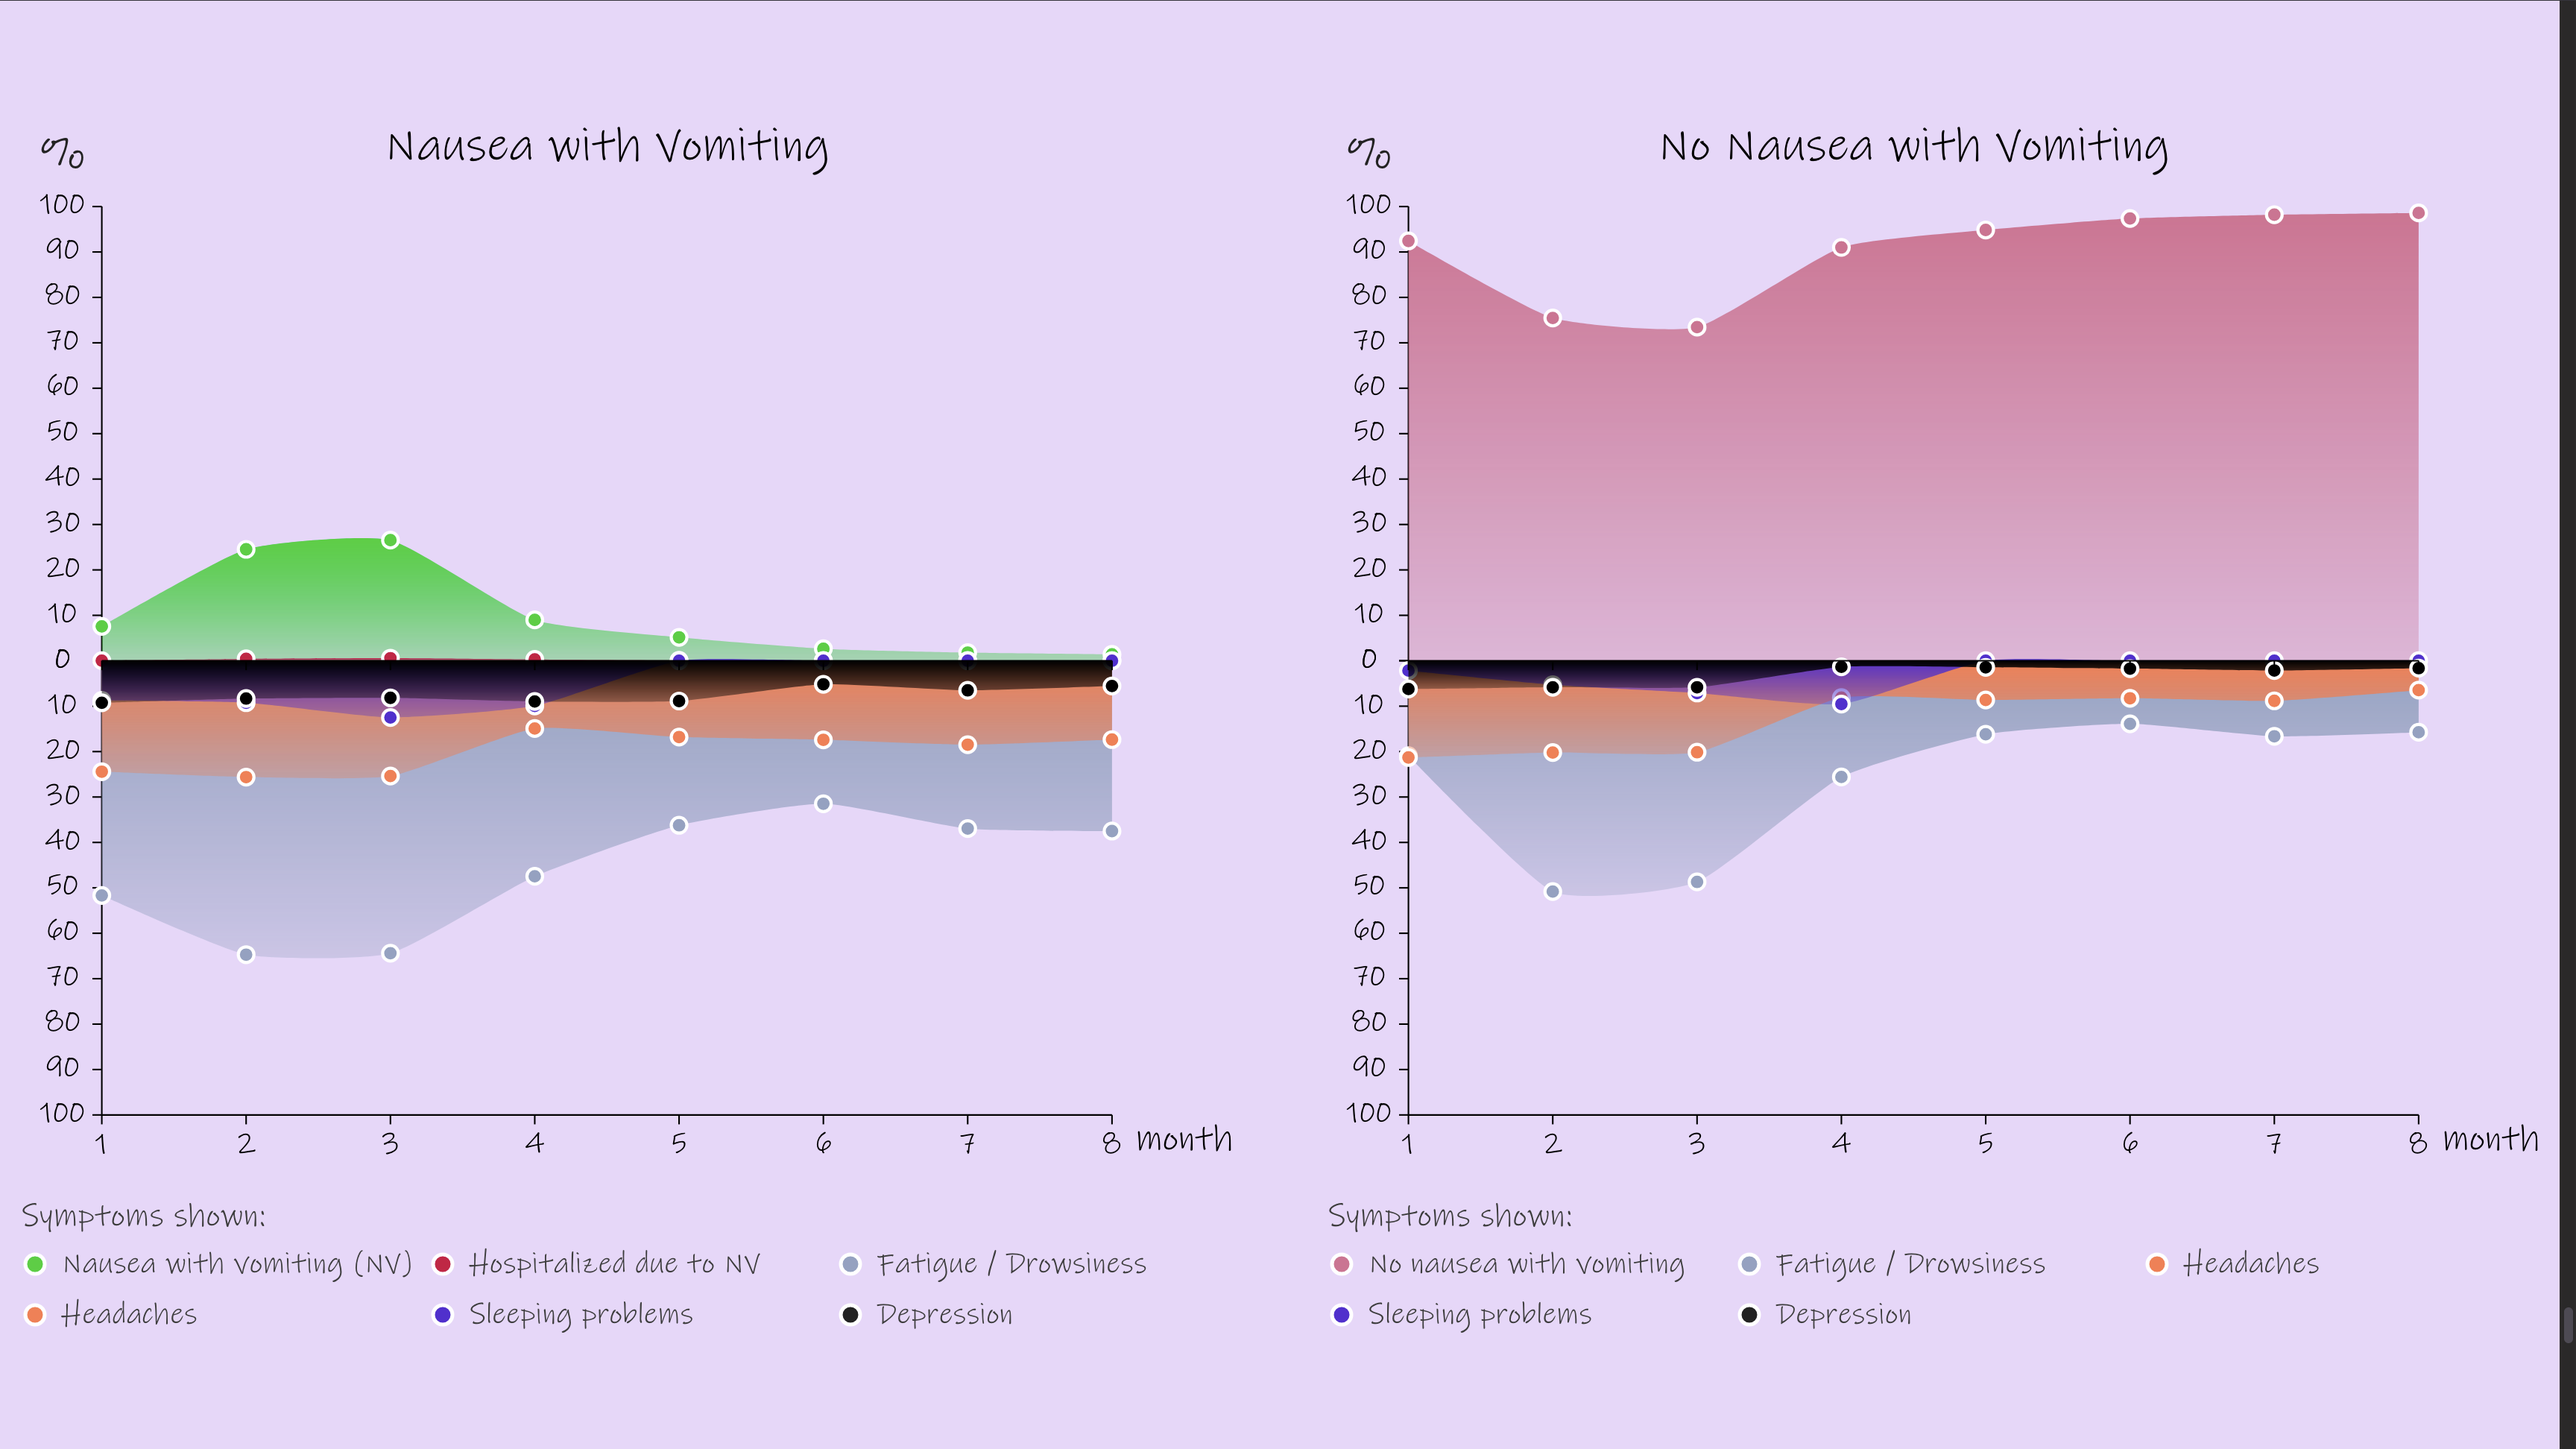
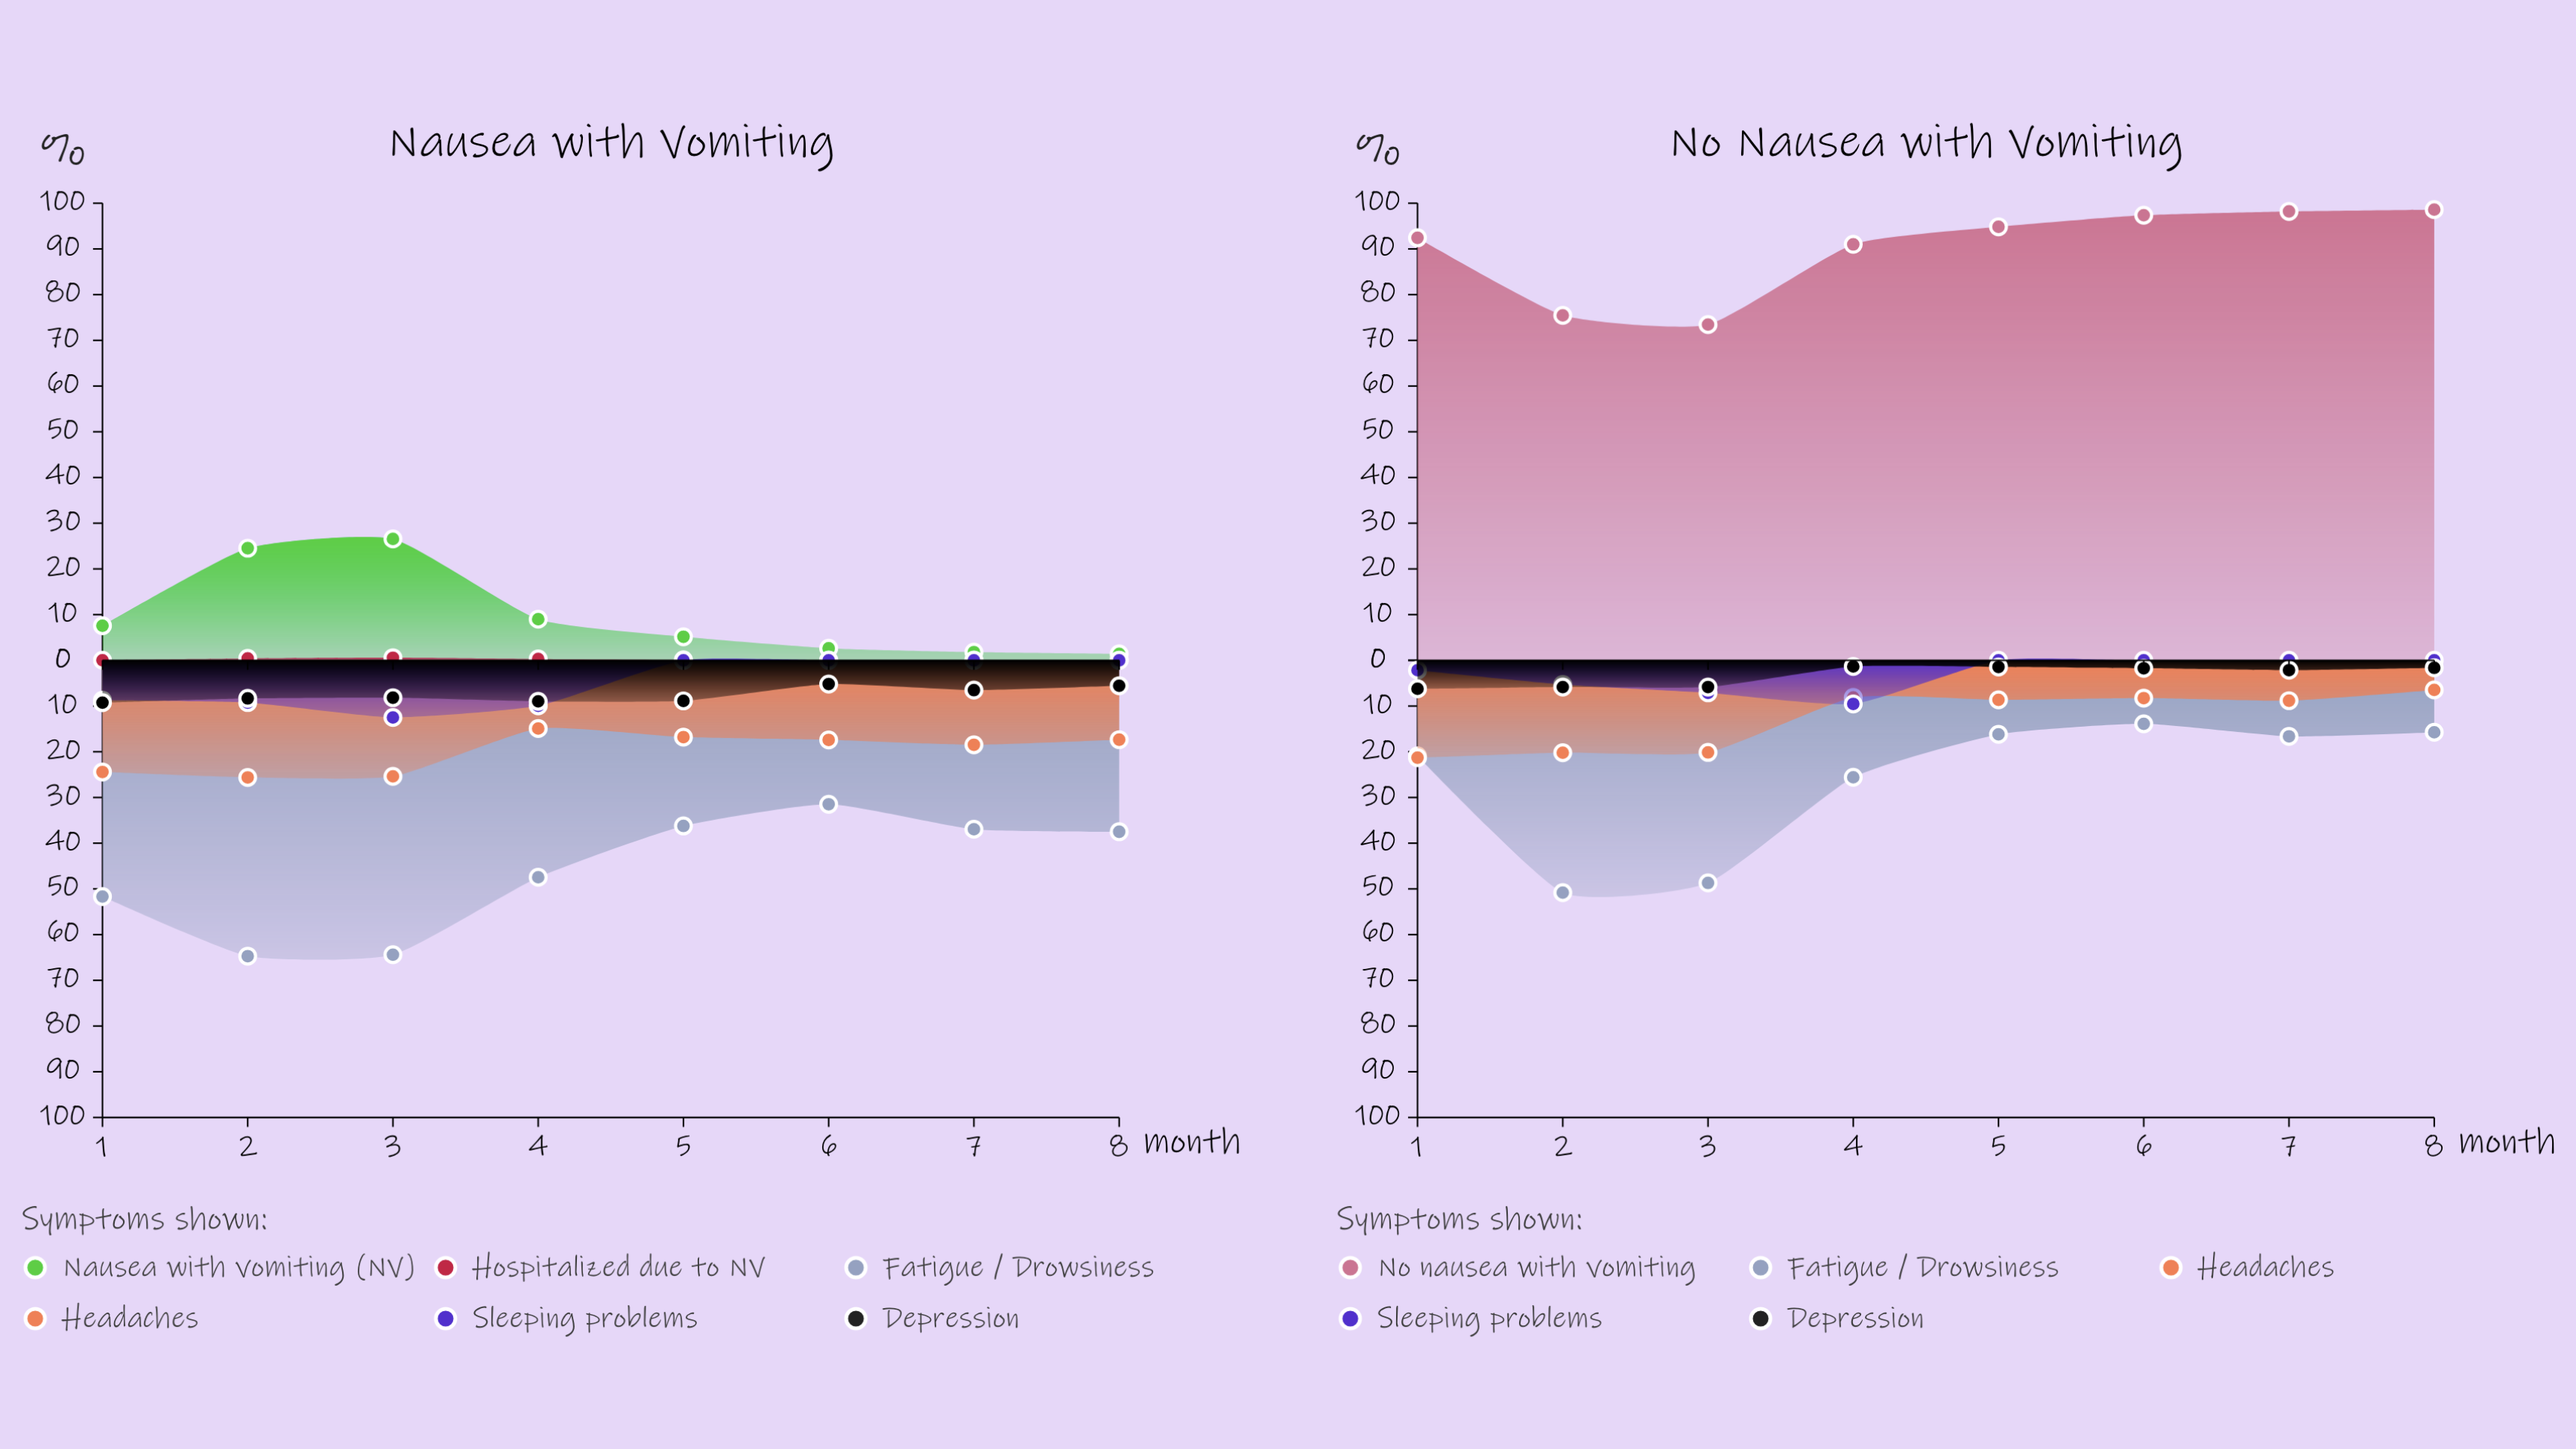
Update animations

diff --git a/src/components/visualization/Area.tsx b/src/components/visualization/Area.tsx
@@ -253,41 +253,31 @@ export default function Area({ visible, scaleType, data, symptom, color, animate
   const areaGradient = 
     revealDirection === "iceberg" ? (
       <>
-        <stop
-          offset="0%"
-          stopColor={`${color}55`}
-        />
-        <stop
-          offset="100%"
-          stopColor={`${color}`}
-        />
+        <stop offset="0%" stopColor={`${color}55`}/>
+        <stop offset="100%" stopColor={`${color}`}/>
       </>
     ) : (
       <>
-        <stop
-          offset="0%"
-          stopColor={`${color}`}
-        />
-        <stop
-          offset="100%"
-          stopColor={`${color}55`}
+        <stop offset="0%" stopColor={`${color}`}/>
+        <stop offset="100%" stopColor={`${color}55`}
         />
       </>
     );
       
   const gradientMask =
-    revealDirection === "population" ? (
-      <>
-        <stop offset="0%" stopColor="black" />
-        <stop offset="10%" stopColor="white" />
-        <stop offset="100%" stopColor="white" />
-      </>
-    ) : (
+    revealDirection === "timeline" ? (
       <>
         <stop offset="0%" stopColor="white" />
         <stop offset="90%" stopColor="white" />
-        <stop offset="100%" stopColor="black" />
+        <stop offset="100%" stopColor="black"/>
       </>
+    ) : (
+      <>
+        <stop offset="0%" stopColor="black" />
+        <stop offset="10%" stopColor="white" />
+        <stop offset="100%" stopColor="white"/>
+      </>
+      
   );
 
 

diff --git a/src/hooks/useVisualizationState.ts b/src/hooks/useVisualizationState.ts
@@ -17,13 +17,13 @@ export function useVisualizationState(currentScene: number) {
 
     showDataPointAnnotation: currentScene === 22,
 
-    showHospitalization: currentScene >= 23 && currentScene <= 25 || (currentScene >= 30),
+    showHospitalization: currentScene >= 23 && currentScene <= 25,
     
     animateHospitalization: currentScene === 23,
 
     showZoomButton: currentScene === 24,
 
-    showFatiguePopulation: currentScene >= 25 && currentScene <= 27,
+    showFatiguePopulation: currentScene >= 25 && currentScene <= 28,
 
     showSymptomPanel: currentScene >=25,
 
@@ -32,7 +32,7 @@ export function useVisualizationState(currentScene: number) {
     showWaterline: currentScene >= 27,
 
 
-    showNVTransition: currentScene >= 27 && currentScene <= 28,
+    showNVTransition: currentScene >= 27 && currentScene === 28,
 
     showFatigueTransition: currentScene >= 27,
 
@@ -47,7 +47,5 @@ export function useVisualizationState(currentScene: number) {
 
     showComparison: currentScene >= 34,
 
-
-  }
-  
+  }  
 }

diff --git a/src/components/visualization/ComparisonChart.tsx b/src/components/visualization/ComparisonChart.tsx
@@ -88,7 +88,7 @@ export default function DataVisualization({ vizScene, state, mode, setInteracted
       transition,
       state.showTransition ? 1 : 0,
       {
-        duration: 0.5,
+        duration: 0.3,
         ease: "easeInOut",
       }
     );
